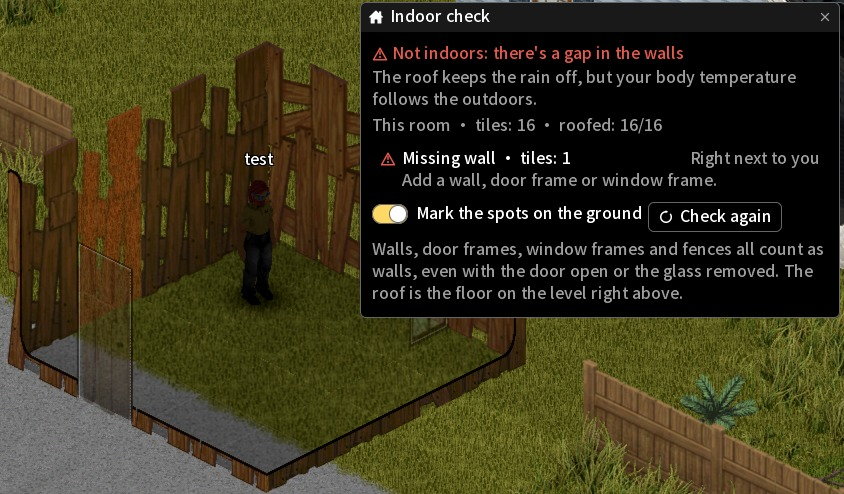
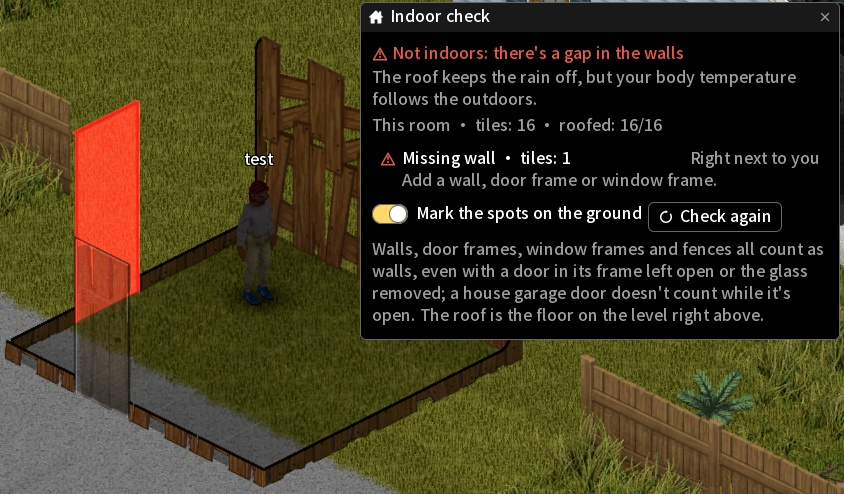
室內檢查：缺牆改畫亮紅色牆面，缺口上的門另列「開著的門」
使用者 2026-10-15 在正式服實測 0.5.0 的三個回饋：
1.「缺少牆壁的那個效果我認為可以在顯眼一點」、3.「是不是應該明顯一點的亮紅色，然後不應該是用那個木板牆的樣子吧?」
- 牆影改用本 MOD 的白色牆面貼圖 WallGhost{N,W}2x.png（輪廓取原版 walls_exterior_house_01_1／_0，外框 3 px 實心、
  面 alpha 140），開窗時 IsoSprite.new＋LoadSingleTexture 建一次；顏色固定亮紅 (1, 0.12, 0.12)，強度 0.85、選中 1。
  原本是原版木牆貼圖、主題 errorText、0.5／0.9。
2.「這個車庫門，怎麼會被判定有缺口?這車庫門應該是我們 Knox pass mod 的」
- 判定照引擎不改：原版 walls_garage_01 開著的門片只有 doorW／doorN、沒有 cutW／cutN，IsoRegions 照缺口算，
  伺服器算體溫也照室外。
- 伺服器 addGap 遇到那條邊上有同方向的門（IsoDoor，或 IsoThumpable 且 isDoor）改記在 doors（x, y, side, 開著 1／關著 0），
  gapCount 照算全部、另回 doorCount。客戶端 doorRows 照開關各自併段，列「開著的門 N 格」（開著時不算牆，關上後重新檢查）
  或「不算牆的門 N 格」，不再建議補牆、門框或窗框。
- 原版右鍵開關門只 RecalcAllWithNeighbours＋PolygonalMap2.squareChanged，不更新 IsoRegions（IsoDoor.java:1621-1623、
  1832-1834、3362-3363），判定可能和門現在的開關對不上；README、指南與面板說明寫明。Knox Pass 要不要改，留給使用者決定。
- 16 語新增 4 個鍵；〔在地上標出位置〕提示改成亮紅色的牆，面板說明加上住宅的車庫門開著時不算。
- harness：假格子加門，驗 doors／doorCount、方向不合與不是門的物件照缺牆列、各自的 MAX_MARKS；客戶端門的兩種列與修法、
  亮紅色貼圖的牆影（1750 項）。

實機（家族 E2E indoor-mp 加車庫門三步）sh-garage-ch-1015a、sh-indoor-shotch-1015c、sh-indoor-shoten-1015c 都 PASS
（17 步／49 檢查）：關著的原版白色車庫門照樣算室內；照 Knox Pass 打開、按〔重新檢查〕後 OPEN，
doors=10730,9771W1 10730,9772W1 10730,9773W1，列「開著的門 3 格」、牆影 3 面；關上再查回 ROOM。
牆影在草地上量到外框 (246, 31, 23)、面 (250, 70, 40)。指南截圖 11、12 中英改取後兩輪。

diff --git a/README.md b/README.md
@@ -22,7 +22,7 @@ Project Zomboid Build 42 MOD。
 - **分享**：分享給指定玩家或屋主所在的陣營，逐項授權：成員（進出與拿放容器）、用電器（含取水、發電機的接線、開關、加油與修理）、搬家具（含搬走發電機）、建造（含拆除）、農耕、邀請（可以把還不能進屋的玩家加進來，只能給出自己也有的權限，不能改或移除既有成員）、管理（可以替屋主改權限、停止分享與邀請，但只能給出自己也有的權限、不能再給管理）。邀請與管理只能給個別玩家，陣營分享最多到農耕。輸入玩家名稱時下拉列出候選：線上玩家與你分享過的人（不分大小寫比對名字的一部分）；離線的玩家要打完整名字（分大小寫）才會出現，不能用關鍵字列出全服玩家。新加的人要是伺服器認得的玩家：在線上、Steam 伺服器上裝了本 MOD 之後登入過、管理員設過個人間數，或已經是某間安全屋的屋主或成員；非 Steam 伺服器沒有登入紀錄，對方要在線上或已經和某間安全屋有關。陣營解散、換領袖或屋主離開陣營時，陣營分享自動暫停並移除只靠陣營進來的人，屋主一鍵恢復。每間分享人數上限預設 8（管理員可調 0–32）。
 - **安全屋管理視窗**：從 User Panel 的「安全屋管理」按鈕或家族工具列開啟，分「我的安全屋」與「分享給我的」；可改名、看狀態與土地規則、管理分享、放棄。清單底下的「在地面顯示範圍」（預設開）在地上畫出附近安全屋的邊界，分四類、各一種顏色：我的（青）、分享給我的（藍）、同陣營的（橘）、其他玩家的（洋紅），草地、柏油上都是同一個顏色，開關旁的色塊就是地上看到的顏色。人物站的地方附近、會被房子擋住的那幾格改成染在地板上（人物照常站在上面、房子照常擋住它），顏色比較深；每類可以分開關；關掉視窗、下次進遊戲都照樣顯示（選項的「模組」頁也能切換）。同陣營的、其他玩家的要伺服器開放（預設只開同陣營的）。按〔建立安全屋〕或〔重新框選〕時管理視窗先收起來、只留建立面板，關掉建立面板後再回來，建立成功時直接停在新的那間。安全屋再多，清單也只是捲動，「在地面顯示範圍」的開關固定在清單底下；視窗縮得太小或字型放大時，視窗會自己長高到放得下。原版的建立安全屋右鍵選項會拿掉，原版安全屋視窗遇到本 MOD 的安全屋會改開管理視窗。
 - **安全屋重生點**：玩家站在自己有權限的安全屋裡（屋主或成員都可以），在管理視窗按〔設為重生點〕，之後死亡、重新開始的新角色一律出現在設定時站的那一格，不論出生選單選哪裡（同一次連線中死亡時不會出現出生地點選單：只有一個地點時原版直接跳過）。在樓上或地下室設的點，伺服器當下確認不了那層地板還在時（那一帶沒有載入，或地板拆掉、燒掉了），改出生在同一格的地面層。每人一個重生點，換一間設就取代舊的，也可以〔清除重生點〕。安全屋被放棄或停用、玩家被移出成員時暫時失效，照原版方式出生，恢復後又能用。總開關是原版伺服器設定 `SafehouseAllowRespawn`（關著時不能設、也不套用）。原版「在安全屋重生」的勾選，在更新後第一次開機自動換成那間安全屋中央的重生點，之後不再使用原版勾選。分割畫面的第 2–4 位玩家重生時也會落在主帳號的重生點。
-- **室內檢查**：在地上按右鍵選「檢查這裡算不算室內」（查點到的那格），或在管理視窗按〔室內檢查〕（查站的那格），判斷自己蓋的房子在多人伺服器上算不算室內（保暖、擋風、體溫照室內算）。判定照伺服器算體溫的規則：四面要圍起來（牆、門框、窗框、圍籬都算，門開著、玻璃拆了也算），而且每一格正上方那一層都要有地板；缺一格屋頂，整個房間就照室外算。不算室內時列出缺幾格牆、缺幾格屋頂、離你多遠，並在地上標出位置（這次檢查到的範圍地板稍微變暗、缺屋頂的格子地板染紅、缺牆的地方畫紅色牆影，可以關掉）。同一棟的其他房間也一起列出：同一層沿著相連的屋頂找，樓上樓下沿著樓板找，每一層都分析，有不只一層時前面寫第幾樓；點一下就換看那一間，地上的標示跟著換到那一層。單層房子屋頂上的平台（上面沒再蓋一層）不算一層。比牆多一圈的屋頂、門廊這類只有屋頂的地方標成「屋簷下」，不列缺口。面板開著時，附近的牆或地板有變動就自己重新檢查；關掉面板後完全不在背景檢查。只能查自己附近 40 格內，每位玩家每秒最多一次；一棟最多列 12 間，太大的建築只檢查離查的位置最近的一部分；地圖原有的建築照原版規則算室內，自己在地下蓋的房間遊戲永遠不算室內。
+- **室內檢查**：在地上按右鍵選「檢查這裡算不算室內」（查點到的那格），或在管理視窗按〔室內檢查〕（查站的那格），判斷自己蓋的房子在多人伺服器上算不算室內（保暖、擋風、體溫照室內算）。判定照伺服器算體溫的規則：四面要圍起來（牆、門框、窗框、圍籬都算，裝在門框裡的門開著、玻璃拆了也算；住宅的車庫門開著時不算，關上才算），而且每一格正上方那一層都要有地板；缺一格屋頂，整個房間就照室外算。不算室內時列出缺幾格牆、缺幾格屋頂、離你多遠（缺口上有門時寫「開著的門」或「不算牆的門」，不叫你補牆），並在地上標出位置（這次檢查到的範圍地板稍微變暗、缺屋頂的格子地板染紅、缺牆的地方畫一面亮紅色的牆，可以關掉）。用原版右鍵選單開關門時，遊戲不會重新判斷那一格，判定可能和門現在的開關對不上，直到那一格有東西蓋上或拆掉。同一棟的其他房間也一起列出：同一層沿著相連的屋頂找，樓上樓下沿著樓板找，每一層都分析，有不只一層時前面寫第幾樓；點一下就換看那一間，地上的標示跟著換到那一層。單層房子屋頂上的平台（上面沒再蓋一層）不算一層。比牆多一圈的屋頂、門廊這類只有屋頂的地方標成「屋簷下」，不列缺口。面板開著時，附近的牆或地板有變動就自己重新檢查；關掉面板後完全不在背景檢查。只能查自己附近 40 格內，每位玩家每秒最多一次；一棟最多列 12 間，太大的建築只檢查離查的位置最近的一部分；地圖原有的建築照原版規則算室內，自己在地下蓋的房間遊戲永遠不算室內。
 - **伺服器權威**：建立、放棄、分享、名額都由伺服器判定；有人用原版封包改本 MOD 安全屋的屋主、名稱或成員時，伺服器每輪把它改回來；被刪掉的安全屋自動重建。
 - **付費名額**（需要 Economy）：每個地契等級各自販售買斷與月租名額，價格由管理員逐級設定。
 - **管理員面板**：五頁（規則、地契、排除、玩家、付費），改完按「套用變更」立即寫回伺服器沙盒設定並同步給線上玩家。

diff --git a/STEAM_GUIDE_EN.md b/STEAM_GUIDE_EN.md
@@ -299,11 +299,12 @@ Find out whether a house you built counts as indoors on a multiplayer server (wa
 [list]
 [*] [b]Open it[/b]: right-click the floor and choose "Check if this counts as indoors" (checks the tile you clicked), or press "Indoor check" in the Safehouse Manager (checks the tile you stand on).
 [*] [b]Result[/b]: counts as indoors, gap in the walls, roof isn't finished, only part of it has a roof, only under a roof, or outdoors.
-[*] [b]What counts[/b]: the room must be closed in on all sides (walls, door frames, window frames and fences all count, even with the door open or the glass removed), and every tile needs a floor on the level right above. With one roof tile missing, body temperature and wind chill follow the outdoors for the whole room.
+[*] [b]What counts[/b]: the room must be closed in on all sides (walls, door frames, window frames and fences all count, even with a door in a door frame left open or the glass removed; a house garage door only counts while it's closed), and every tile needs a floor on the level right above. With one roof tile missing, body temperature and wind chill follow the outdoors for the whole room.
 [/list]
 {{img:12-indoor-gap-en.jpg}}
 [list]
-[*] [b]Finding the cause[/b]: it lists the missing wall and roof tiles and how far away they are; with "Mark the spots on the ground" on, the floor of the area that was checked turns slightly darker, missing roof tiles turn the floor red and missing walls show as red wall outlines.
+[*] [b]Finding the cause[/b]: it lists the missing wall and roof tiles and how far away they are; when a door sits in the gap, the row says "Open door" (close it, then press "Check again") or "Door that isn't a wall" instead of asking you to build a wall. With "Mark the spots on the ground" on, the floor of the area that was checked turns slightly darker, missing roof tiles turn the floor red and missing walls show as a bright red wall.
+[*] [b]Opening and closing doors[/b]: when you open or close a door from the vanilla right-click menu, the game doesn't recheck that tile, so the result may not match the door until something is built on or removed from that tile.
 [*] [b]The same building[/b]: the other rooms are listed too; click one to look at it. On the same floor it follows the connected roof, and up and down it follows the floors, so every floor is checked; with more than one floor, each row says which floor, and the marks on the ground move to the floor of the room you're looking at. A flat roof with nothing built on top doesn't count as a floor; a roof that sticks out past the walls, or a porch, shows as "Under the eaves".
 [*] [b]Rechecks by itself[/b]: while the window is open, it checks again when walls or floors nearby change; once you close it, nothing is checked in the background.
 [*] [b]Limits[/b]: only tiles within 40 tiles of you; up to 12 rooms per building, and for a very large building only the part nearest the checked spot; the map's own buildings count the vanilla way; self-built rooms underground never count as indoors.

diff --git a/STEAM_GUIDE.md b/STEAM_GUIDE.md
@@ -299,11 +299,12 @@ https://steamcommunity.com/sharedfiles/filedetails/?id=3819478078
 [list]
 [*] [b]開啟[/b]：在地上按右鍵選「檢查這裡算不算室內」（查點到的那格），或在管理視窗按〔室內檢查〕（查站的那格）。
 [*] [b]結論[/b]：算室內、牆有缺口、屋頂沒蓋滿、只有一部分有屋頂、屋簷下或室外。
-[*] [b]怎樣算室內[/b]：四面圍起來（牆、門框、窗框、圍籬都算，門開著、玻璃拆了也算），而且每一格正上方那一層都有地板。缺一格屋頂，整個房間的體溫、風寒都照室外算。
+[*] [b]怎樣算室內[/b]：四面圍起來（牆、門框、窗框、圍籬都算，裝在門框裡的門開著、玻璃拆了也算；住宅的車庫門開著時不算，關上才算），而且每一格正上方那一層都有地板。缺一格屋頂，整個房間的體溫、風寒都照室外算。
 [/list]
 {{img:12-indoor-gap-zh.jpg}}
 [list]
-[*] [b]找出原因[/b]：列出缺幾格牆、缺幾格屋頂、離你多遠；勾著「在地上標出位置」時，這次檢查到的範圍地板稍微變暗，缺屋頂的格子地板染紅，缺牆的地方畫出紅色牆影。
+[*] [b]找出原因[/b]：列出缺幾格牆、缺幾格屋頂、離你多遠；缺口上有門時寫「開著的門」（關上後按〔重新檢查〕）或「不算牆的門」，不叫你補牆。勾著「在地上標出位置」時，這次檢查到的範圍地板稍微變暗，缺屋頂的格子地板染紅，缺牆的地方畫一面亮紅色的牆。
+[*] [b]門的開關[/b]：用原版右鍵選單開關門時，遊戲不會重新判斷那一格，判定可能和門現在的開關對不上，直到那一格有東西蓋上或拆掉。
 [*] [b]同一棟[/b]：其他房間一起列出，點一下換看那一間。同一層沿著相連的屋頂找，樓上樓下沿著樓板找，每一層都分析，有不只一層時前面寫第幾樓；換看別層的房間時，地上的標示跟著換到那一層。單層房子屋頂上的平台不算一層；比牆多一圈的屋頂、門廊這類只有屋頂的地方寫「屋簷下」。
 [*] [b]自動重查[/b]：面板開著時，附近的牆或地板有變動就自己重新檢查；關掉面板後不會在背景檢查。
 [*] [b]限制[/b]：只能查自己附近 40 格內；一棟最多列 12 間，太大的建築只檢查離查的位置最近的一部分；地圖原有的建築照原版算室內；自己在地下蓋的房間遊戲永遠不算室內。

diff --git a/CHANGELOG.md b/CHANGELOG.md
@@ -12,6 +12,18 @@
 
 格式基於 [Keep a Changelog](https://keepachangelog.com/zh-TW/1.1.0/)，版本號遵循 `{PZ版本}-{主版本}.{次版本}.{修訂}` 格式。
 
+## [Unreleased]
+
+### 變更
+
+- **室內檢查的缺牆標示改成亮紅色的牆面**：之前缺牆的地方畫的是深紅色的木板牆，白天在草地上不明顯，也容易看成真的牆。現在改畫一面亮紅色、外框清楚的半透明牆面；在面板點選那一列時，那一段會畫得更實。
+
+### 修正
+
+- **開著的車庫門不再叫你「補上牆」**：車庫門開著時，遊戲本來就不把它算成牆，房間照室外算；之前面板把它列成「牆缺 N 格」，還建議補上牆、門框或窗框。現在缺口上有門時另外列：開著的寫「開著的門」，提醒你關上後按〔重新檢查〕；關著也照缺口算的門寫「不算牆的門」。
+
+> 技術要點：判定沒有改，照遊戲本身的規則：原版綠色、白色車庫門開著時不算牆，關上才算；工業捲門開著也算牆；有些 MOD 的門關著也不算牆。用原版右鍵選單開關門時，遊戲不會重新判斷那一格，所以門的開關狀態和判定可能對不上，直到那一格有東西蓋上或拆掉。
+
 ## [42.21.0-0.5.0] - 2026-10-15
 
 ### 新增
